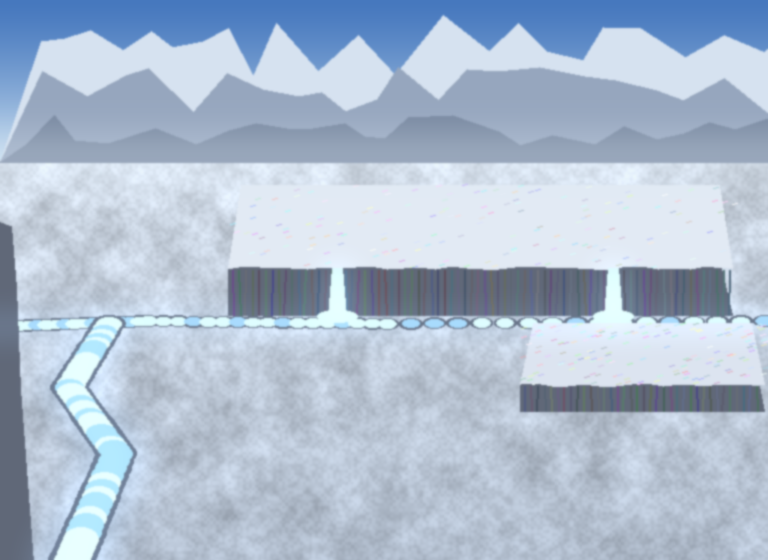
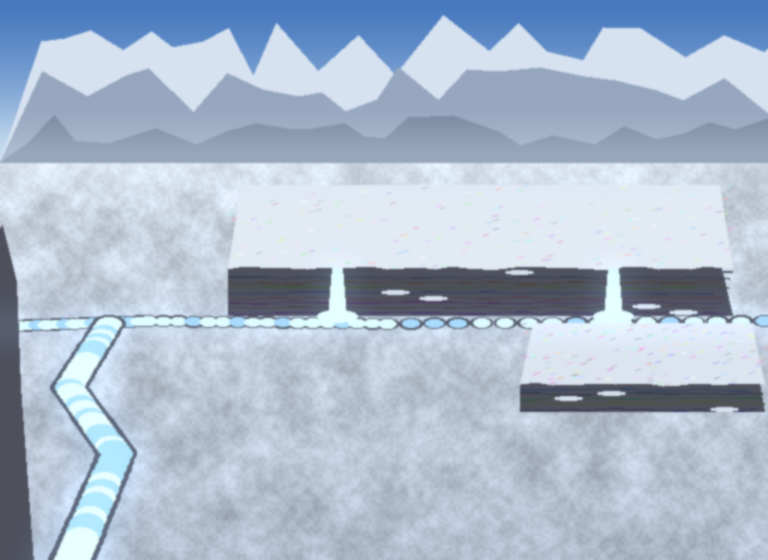
Akademia: tło z płaskowyżem i lodospadami, układ, ziemia w dwóch przejściach, światło zimowe, ozdoby
Claude-Session: https://claude.ai/code/session_01ACpgVGYFhc89V1nkQx4Yem

diff --git a/tools/grafika3d/budowle-akademia.js b/tools/grafika3d/budowle-akademia.js
@@ -130,11 +130,11 @@ const ACADEMY3 = {
     g.add(cone(1 / PXU, 14 / PXU, AK.gold, 'gold', P(0, 5 + lv * 20 + 6, -4), null, 6));
     if (t >= 3) for (const s of [-1, 1]) { g.add(blk(6, 6, 6, AK.marbleD, 'ashlar', s * 30, 5, 18)); g.add(sph(3 / PXU, AK.gold, 'gold', P(s * 30, 14, 18), [1, 1.6, 1], 8)); }
     g.add(creature(t >= 3 ? 'nagaEmpress' : t >= 2 ? 'nagaQueen' : 'naga', 22, 5, 22, 0.45, -Math.PI / 2 + 0.4)); return g; },
-  dw7(t) { // chmurna świątynia: świątynia na szczycie skalnej iglicy, schody wykute w skale, wokół obłoki; 2: niebiańska – złota kopuła i druga świątynia niżej; 3: świątynia burzy – piorunochrony i błękitny blask
+  dw7(t) { // chmurna świątynia: świątynia na szczycie skalnej iglicy, schody wykute w skale, na półkach śnieg; 2: niebiańska – złota kopuła i druga świątynia niżej; 3: świątynia burzy – piorunochrony i błękitny blask
     const g = new THREE.Group(), H = t >= 3 ? 110 : 96; g.add(boulder(0, 0, -16, 46, '#8a8e98', 90, 0.9)); g.add(cyl3(22, 40, H, '#8a8e98', 'rock', 0, 0, -16, 10)); g.add(boulder(0, H - 10, -16, 30, '#9a9ea8', 91, 0.6));
     for (let i = 0; i < 8; i++) { const a = i / 8 * Math.PI * 1.6 - 0.4, r = 38 - i * 2.2; g.add(blk(10, 3, 6, AK.marbleD, 'ashlar', Math.cos(a) * r, i * H / 8, -16 + Math.sin(a) * r * 0.5)); } /* schody */
     g.add(akTemple(44, 22, 30, 0, -16, { y: H - 4, cols: 5, roofCol: t >= 2 ? AK.gold : AK.blue })); if (t >= 2) g.add(dome(10, 9, AK.gold, 'gold', 0, H + 30, -16));
-    for (let i = 0; i < 6; i++) { const a = i / 6 * Math.PI * 2; g.add(sph((10 + (i % 3) * 3) / PXU, '#f4f6fa', 'plaster', P(Math.cos(a) * 46, H * 0.45 + (i % 2) * 14, -16 + Math.sin(a) * 26), [1.8, 0.7, 1.1], 10)); } /* obłoki wokół iglicy */
+    for (let i = 0; i < 4; i++) g.add(sph((8 - i) / PXU, AK.snow, 'plaster', P((i % 2 ? 1 : -1) * (24 - i * 3), H * (0.25 + i * 0.18), -16 + 20 - i * 2), [1.6, 0.5, 1], 10)); /* łaty śniegu na półkach skały */
     if (t >= 3) { for (const s of [-1, 1]) g.add(cyl3(0.8, 0.8, 30, AK.gold, 'gold', s * 18, H + 26, -16, 5)); glowMark(g, 0, H + 40, -16, 40, AK.cyan); }
     g.add(creature(t >= 3 ? 'stormTitan' : t >= 2 ? 'titan' : 'giant', 40, 0, 24, 0.5, -Math.PI / 2 + 0.4)); return g; },
   ozd(t) { // ozdoby: 1 kryształy lodu, 2 para magicznych latarni, 3 posąg maga na cokole, 4 zaspa z kamieniami, 5 obelisk z runą

diff --git a/tools/tla-ai/szkic-teren.py b/tools/tla-ai/szkic-teren.py
@@ -55,8 +55,16 @@ for p in sorted(T.get('plyty', []), key=lambda p: p['dol']):
     front = []; x = x0
     while x <= x1: front.append(I(x, p['przod'] + (rng.random() - 0.5) * 3)); x += 12
     g.polygon([I(x0, p['dol'])] + front + [I(x1, p['dol'])], fill=cl)
-    for i in range(int((x1 - x0) / 5)):  # pionowe żłobienia urwiska (kolumny bazaltu)
-        X = I(x0 + 3 + i * 5, 0)[0]; c = tuple(min(255, int(v * (0.7 + 0.5 * rng.random()))) for v in cl); g.line([(X, I(0, p['przod'])[1] + 2), (X + (rng.random() - 0.5) * 3, I(0, p['dol'])[1])], fill=c, width=2)
+    if T.get('urwisko') == 'warstwy':  # skalne warstwy (granit) z łatami śniegu na półkach zamiast kolumn bazaltu
+        yt, yb = I(0, p['przod'])[1], I(0, p['dol'])[1]
+        for k in range(int((yb - yt) / 5)):
+            yk = yt + 3 + k * 5 + rng.random() * 2; pts = []; xx_ = I(x0, 0)[0]
+            while xx_ < I(x1, 0)[0]: pts.append((xx_, yk + (rng.random() - 0.5) * 3)); xx_ += 10 + rng.random() * 12
+            c = tuple(min(255, int(v * (0.6 + 0.5 * rng.random()))) for v in cl); g.line(pts, fill=c, width=2)
+            if rng.random() < 0.5: X0 = I(x0 + rng.random() * (x1 - x0), 0)[0]; g.ellipse([X0 - 14, yk - 2, X0 + 14, yk + 2], fill=tuple(T['ziemia'][0]))
+    else:
+        for i in range(int((x1 - x0) / 5)):  # pionowe żłobienia urwiska (kolumny bazaltu)
+            X = I(x0 + 3 + i * 5, 0)[0]; c = tuple(min(255, int(v * (0.7 + 0.5 * rng.random()))) for v in cl); g.line([(X, I(0, p['przod'])[1] + 2), (X + (rng.random() - 0.5) * 3, I(0, p['dol'])[1])], fill=c, width=2)
     g.polygon([top[0], top[1], I(x1, p['przod']), *front[::-1][1:-1], I(x0, p['przod'])], fill=ct)
     for i in range(160):  # faktura wierzchu
         tx, ty = x0 + rng.random() * (x1 - x0), p['tyl'] + rng.random() * (p['przod'] - p['tyl']); X, Y = I(tx, ty); c = tuple(min(255, int(v * (0.7 + 0.5 * rng.random()))) for v in ct); g.line([(X, Y), (X + 5, Y - 1)], fill=c, width=1)
